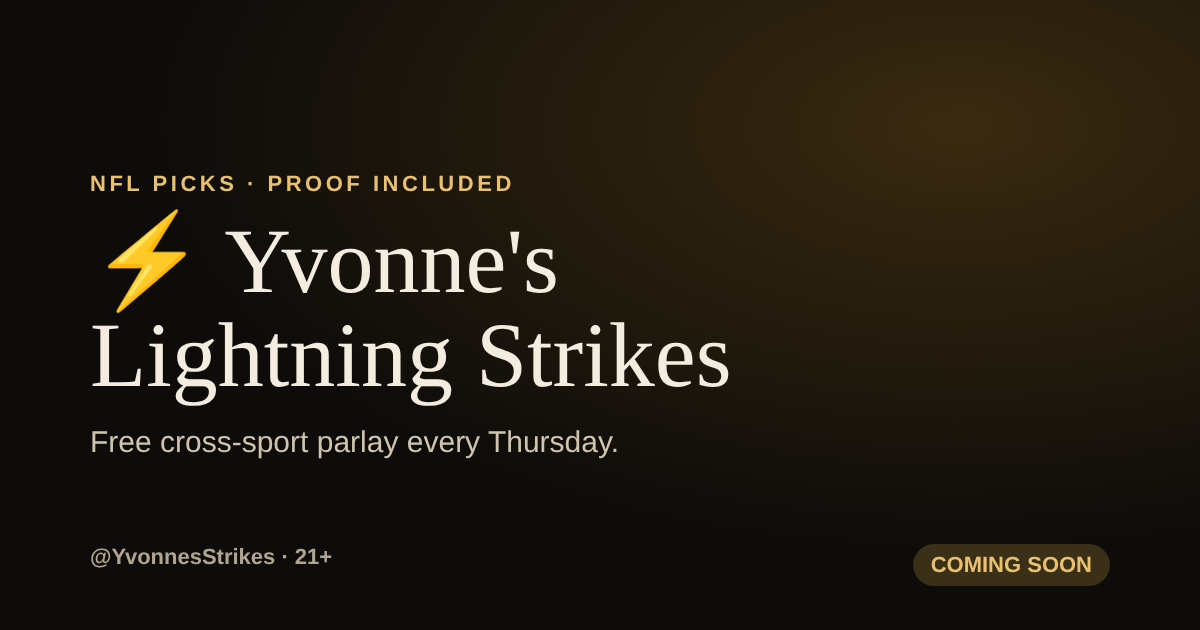
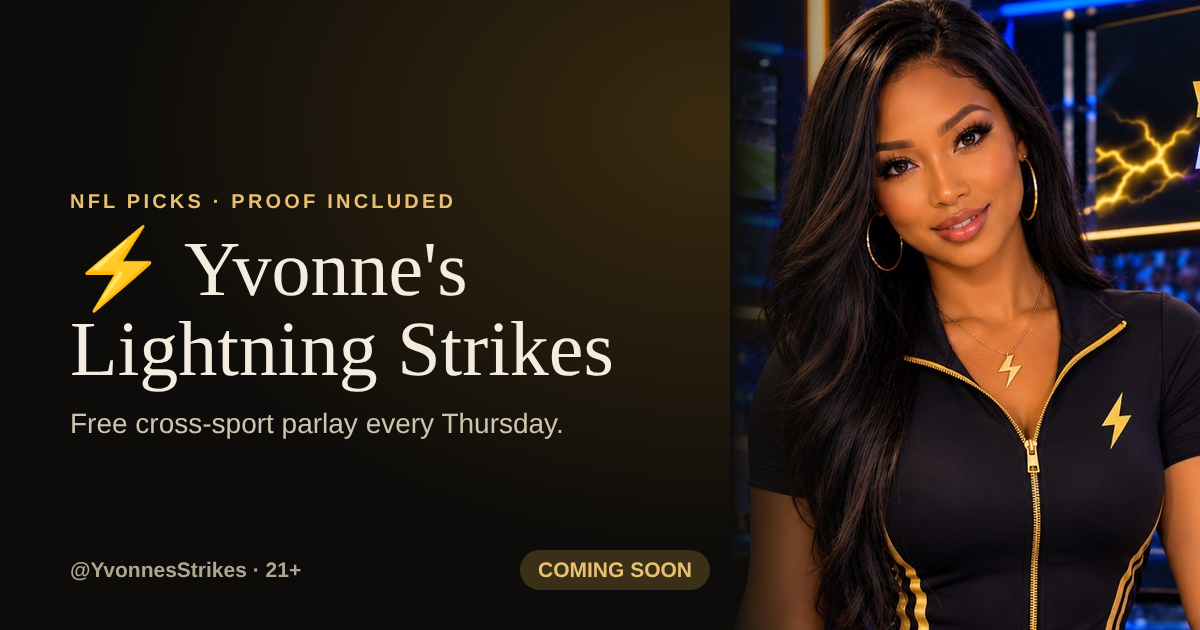
Add host photo to Coming Soon page and social card
Claude-Session: https://claude.ai/code/session_01AdEXTSHwLRwxiuqCwPVmvm

Changed region(s): [[0.4317, 0.0, 1.0, 1.0], [0.0617, 0.2714, 0.6475, 0.7238], [0.0617, 0.8746, 0.2775, 0.9349]]

diff --git a/index.html b/index.html
@@ -5,13 +5,13 @@
 <meta property="og:type" content="website">
 <meta property="og:title" content="Yvonne's Lightning Strikes">
 <meta property="og:description" content="NFL picks with every result posted and provable. Free cross-sport parlay every Thursday. Coming soon. 21+">
-<meta property="og:image" content="https://kenny-nor.github.io/yvonne-data/og.png">
+<meta property="og:image" content="https://kenny-nor.github.io/yvonne-data/og.png?v=2">
 <meta property="og:url" content="https://kenny-nor.github.io/yvonne-data/">
 <meta name="twitter:card" content="summary_large_image">
 <meta name="twitter:site" content="@YvonnesStrikes">
 <meta name="twitter:title" content="Yvonne's Lightning Strikes">
 <meta name="twitter:description" content="NFL picks with every result posted and provable. Free cross-sport parlay every Thursday. Coming soon. 21+">
-<meta name="twitter:image" content="https://kenny-nor.github.io/yvonne-data/og.png">
+<meta name="twitter:image" content="https://kenny-nor.github.io/yvonne-data/og.png?v=2">
 <link rel="preconnect" href="https://fonts.googleapis.com"><link rel="preconnect" href="https://fonts.gstatic.com" crossorigin>
 <link rel="stylesheet" href="https://fonts.googleapis.com/css2?family=DM+Serif+Display&family=Inter:wght@400;500;600;700&display=swap">
 <style>
@@ -20,6 +20,7 @@
 *{box-sizing:border-box}
 body{margin:0;background:var(--bg);color:var(--ink);font:16px/1.55 var(--body)}
 main{max-width:640px;margin:0 auto;padding-block:max(48px,env(safe-area-inset-top)) 48px;padding-left:max(20px,env(safe-area-inset-left));padding-right:max(20px,env(safe-area-inset-right))}
+.face{display:block;width:112px;height:112px;border-radius:50%;object-fit:cover;border:3px solid var(--gold);margin-bottom:20px}
 .eyebrow{font-size:12px;font-weight:700;letter-spacing:.14em;text-transform:uppercase;color:var(--gold)}
 h1{font:400 clamp(38px,10vw,58px)/1.02 var(--display);margin:10px 0 14px;text-wrap:balance}
 .bolt{color:var(--gold)}
@@ -40,6 +41,7 @@ footer{margin-top:40px;border-top:1px solid var(--line);padding-top:18px;color:v
 .memory{font:400 19px var(--display);color:var(--gold);text-align:center;margin-top:12px}
 </style></head>
 <body><main>
+<img class="face" src="yvonne.jpg" alt="Yvonne's Lightning Strikes host" width="112" height="112">
 <div class="eyebrow">NFL picks · proof included</div>
 <h1><span class="bolt">⚡</span> Yvonne's Lightning Strikes</h1>
 <p class="lead">Every pick is locked in before kickoff, and every result is posted the Tuesday after, wins and losses alike. You can check the proof yourself.</p>
